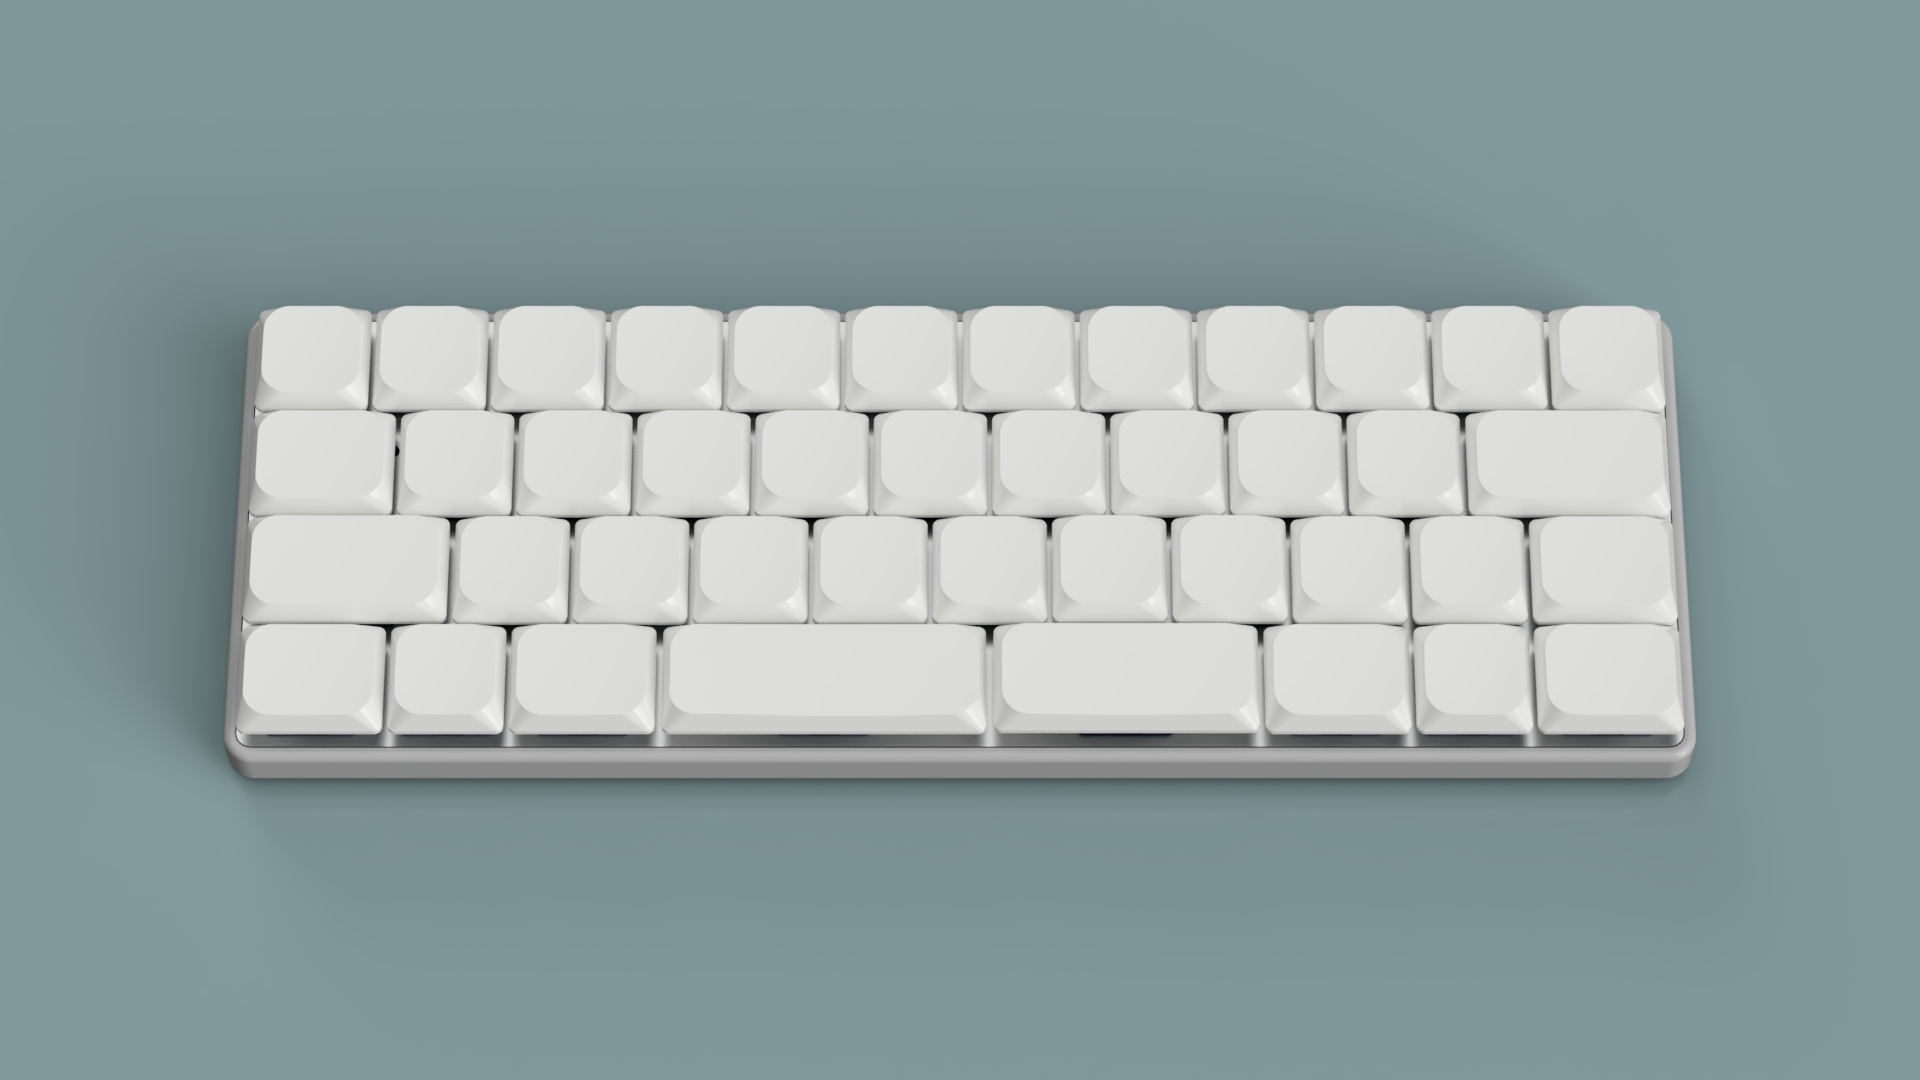
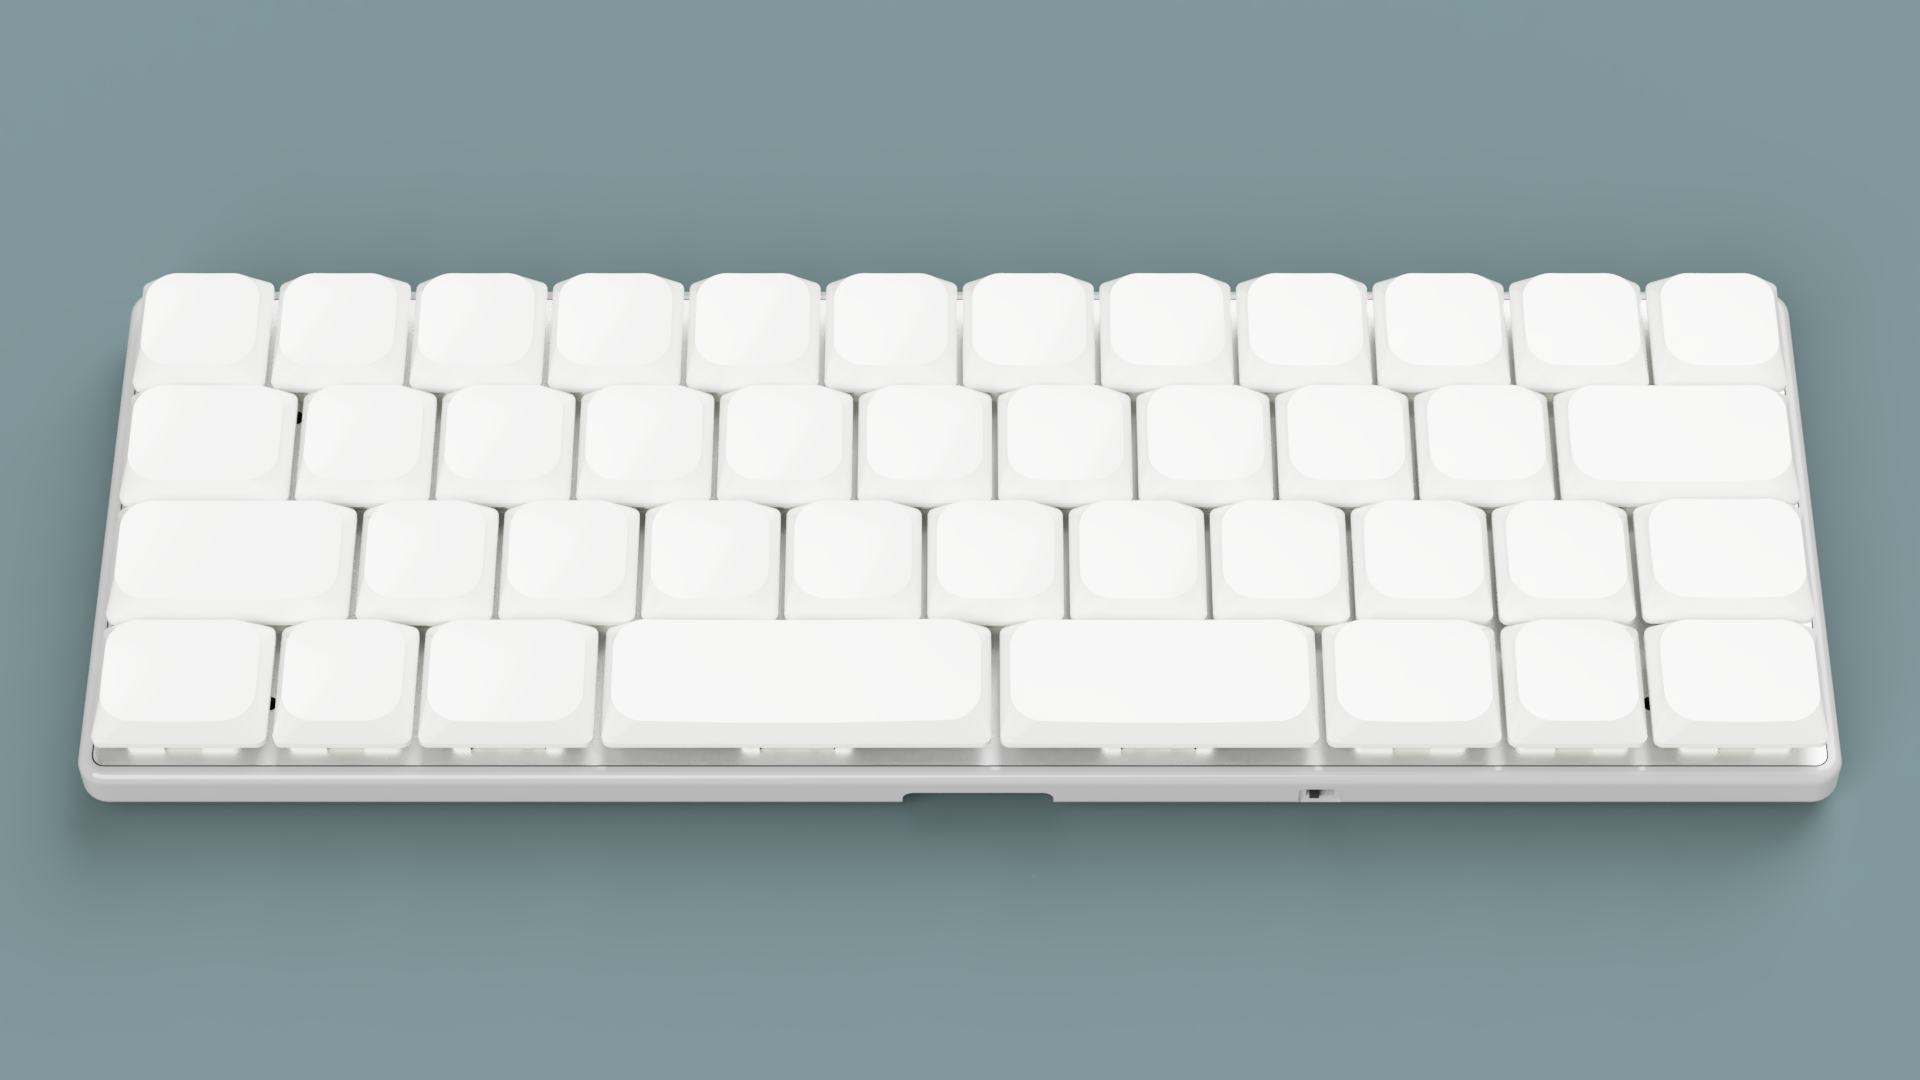
Update README image references

diff --git a/README.md b/README.md
@@ -8,7 +8,7 @@ Blað is a compact wireless keyboard design project by [hringdrifi](https://gith
 
 ![Blað, top view](assets/blad-top-view.png)
 
-![Blað, side view](assets/blad-side-view.png)
+![Blað, bottom view](assets/blad-bottom-view.png)
 
 The design uses 42 Kailh Choc hot-swap switch positions and a [MinewSemi MS88SF21](https://en.minewsemi.com/bluetooth-module/nrf52840ms88sf21) wireless module. Development is currently targeting the MS88SF21 variant based on the Nordic nRF52840.
 
